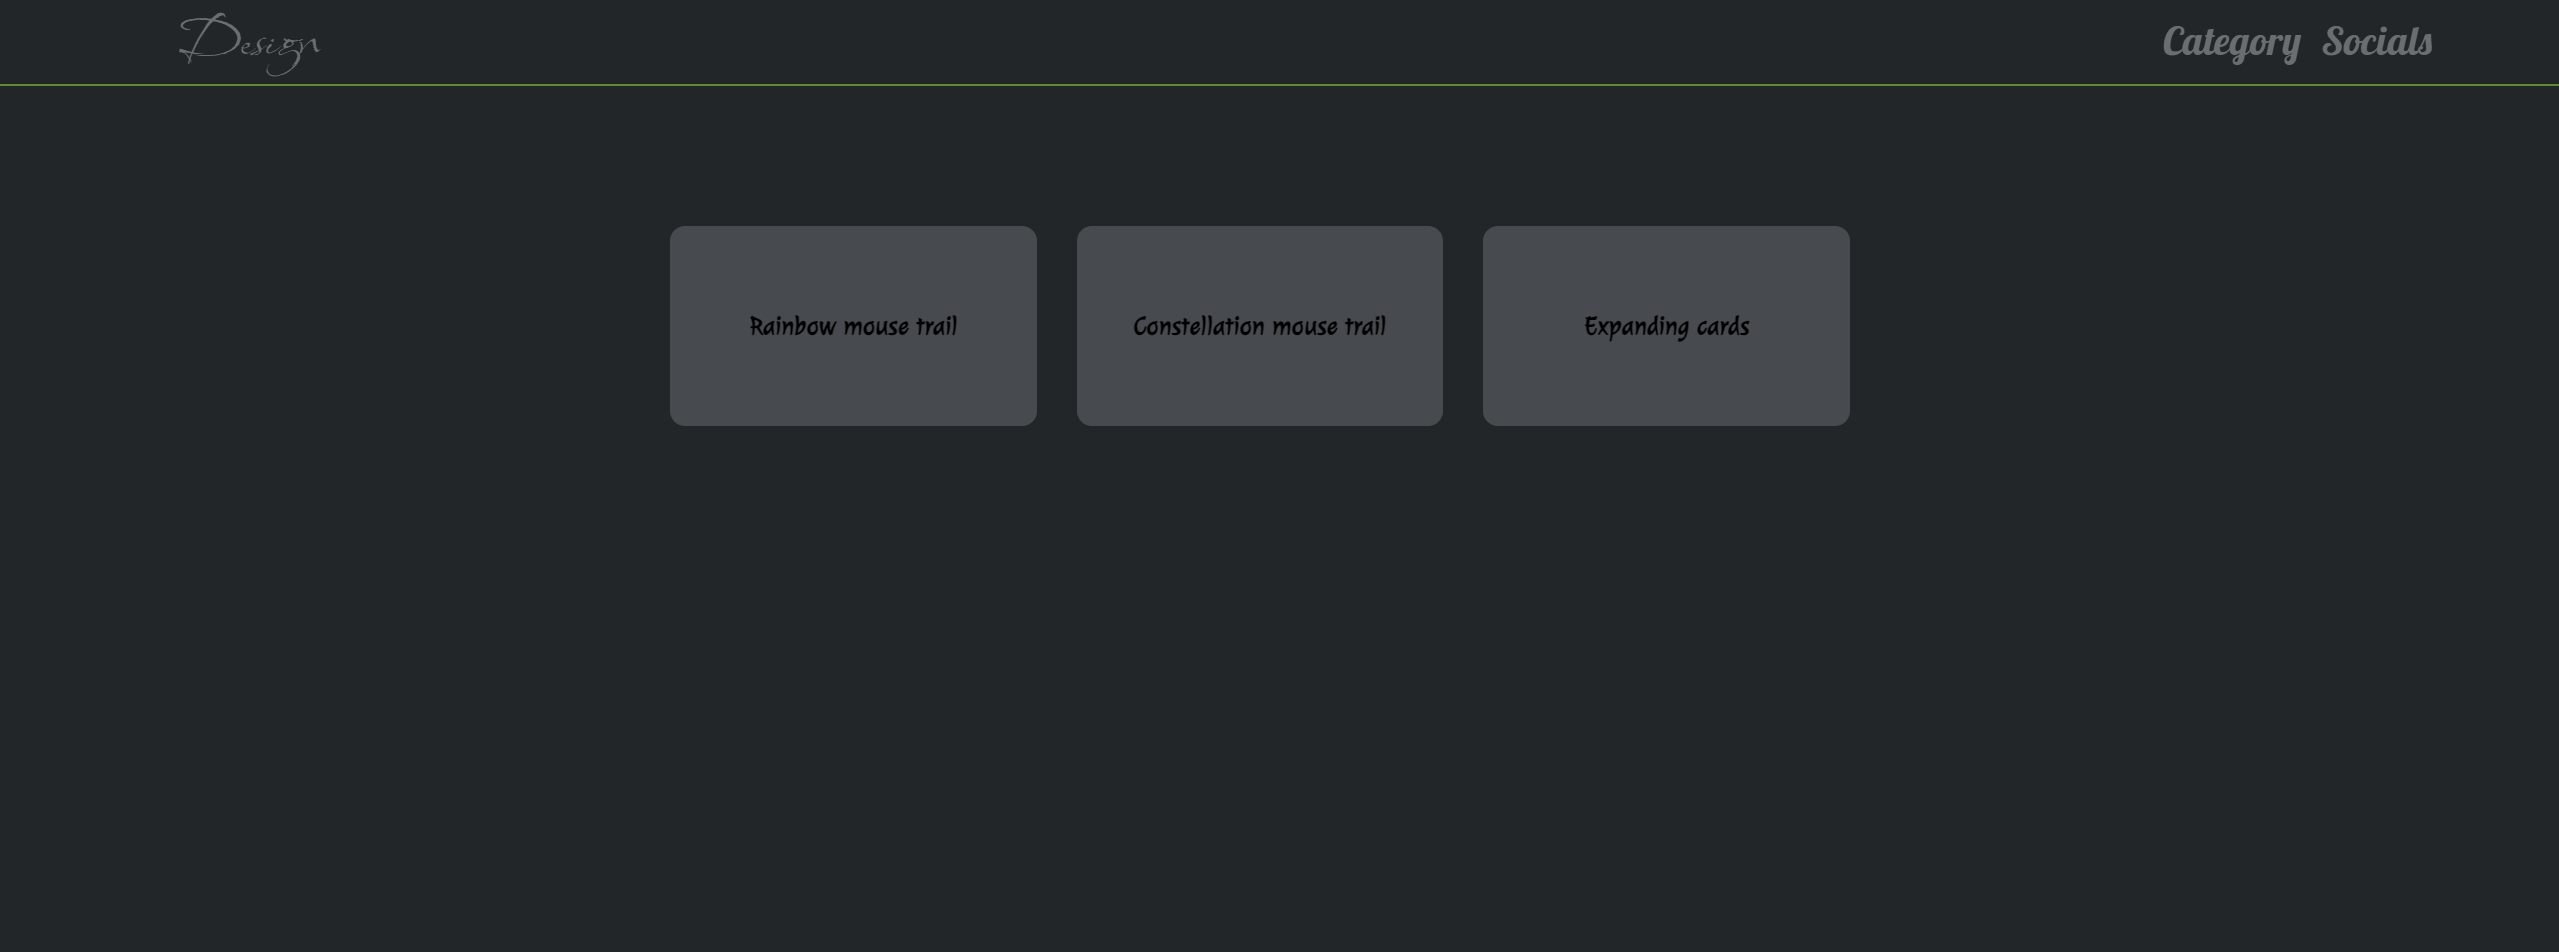
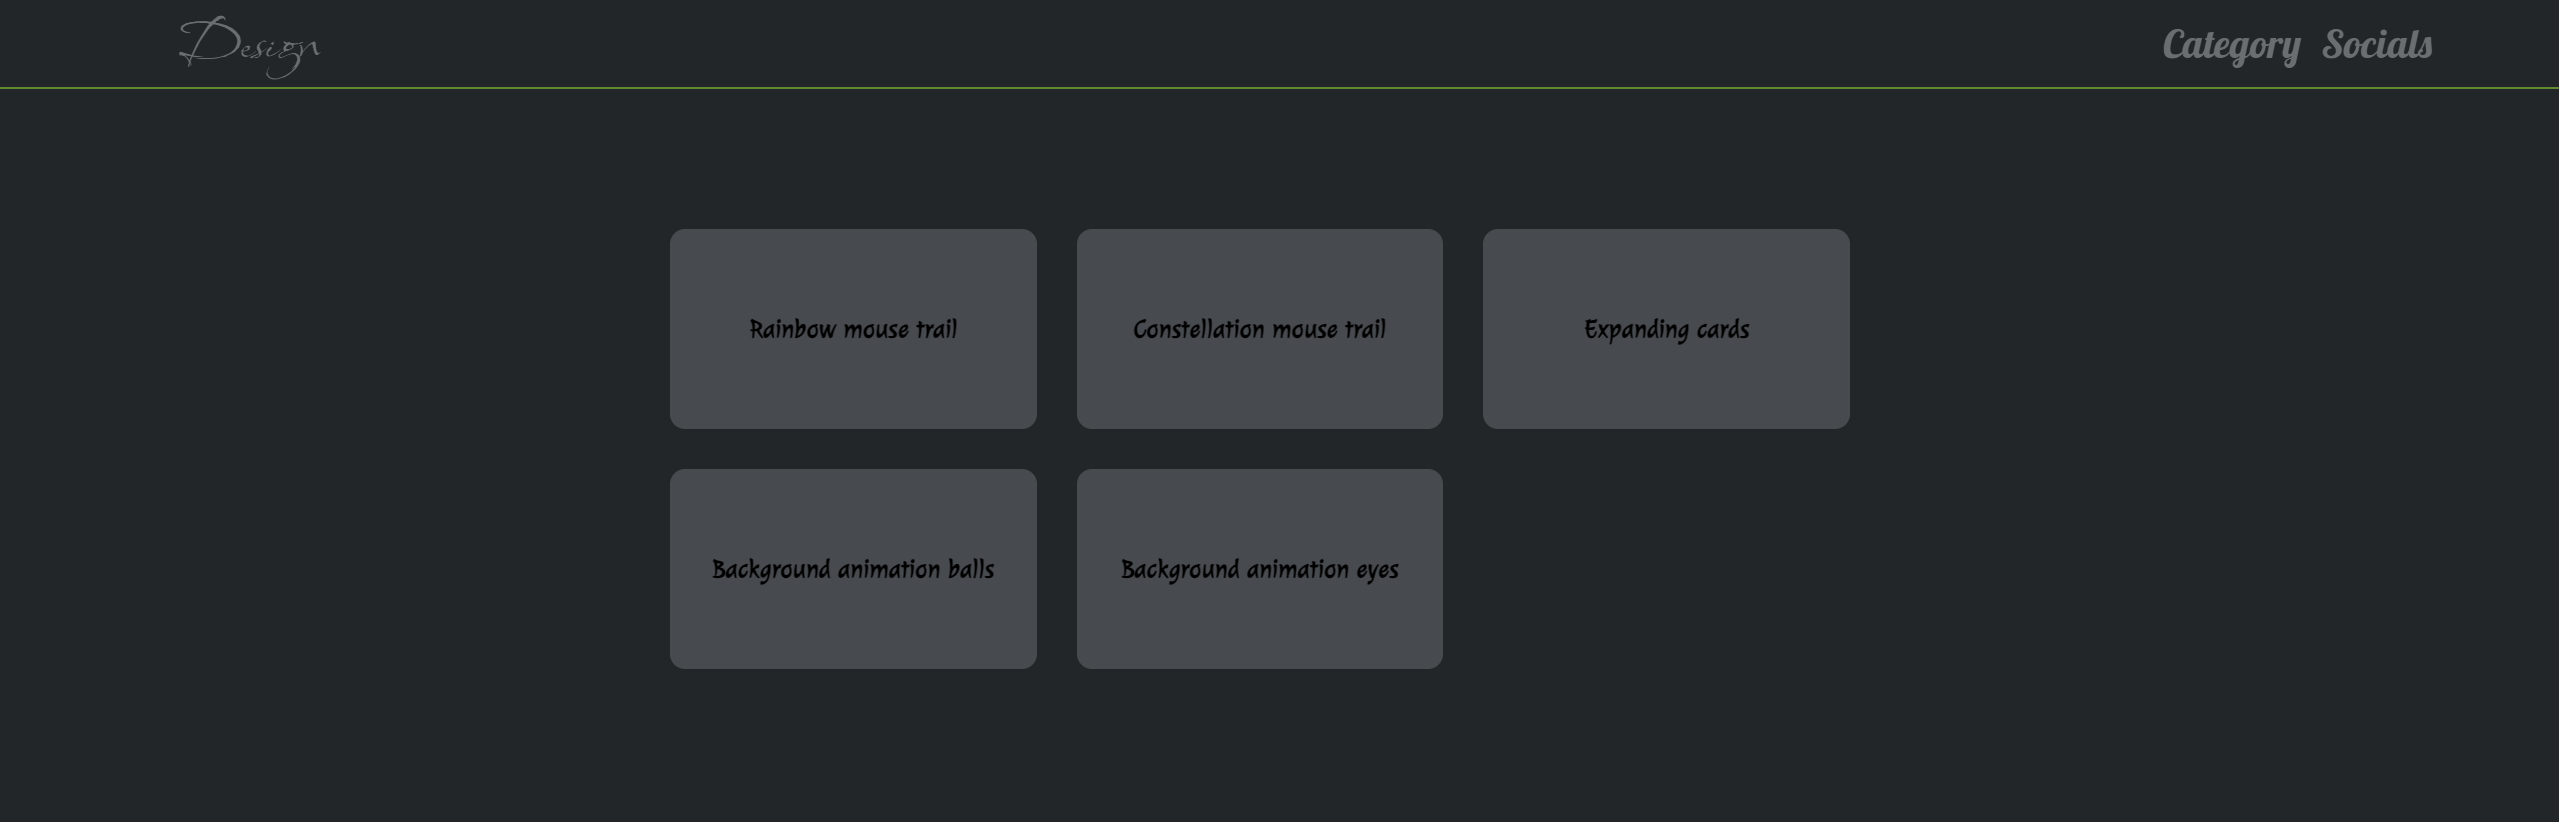
readme update

diff --git a/readme.md b/readme.md
@@ -4,8 +4,18 @@
 
 <br>
 
+### Homepage
+
 <p align="center">
     <img src="./src/assets/ss1.png" />
+</p>
+
+<br>
+
+### Category Filter available
+
+<p align="center">
+    <img src="./src/assets/ss2.png" />
 </p>
 
 <a href="https://design-showcase-ssk.netlify.app/">Visit</a>
